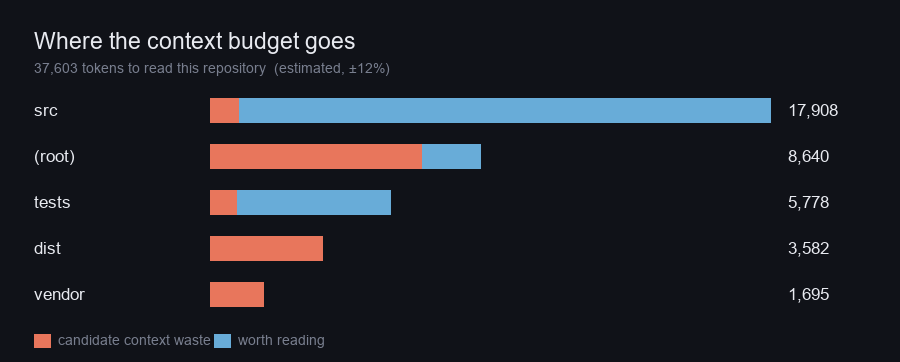
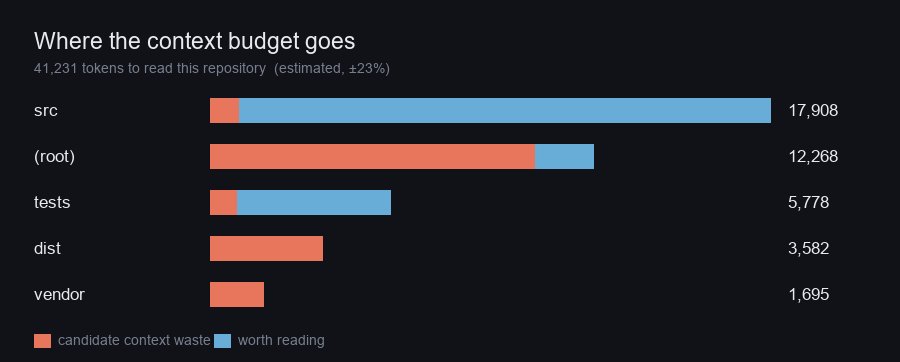
readme: hero table of 17 measured repos — buildkit 89.5% to yq 0.7%
The strongest asset this project has — 17 real repositories with measured
savings — lived only inside case-study posts while the front page showed a
single-repo example. The table now sits directly under the uvx one-liner,
sorted by share, each repo linked, with the spread itself framed as the
finding: there is no universal waste percentage, only your repository's
number, and the floor is genuinely low.

Also regenerates the generated section against the current estimator
(commit 4f52b8f changed lockfile counting; the example repo now reads
41,231 tokens, not 37,603) and fixes the stale test count (196 -> 198),
both of which had left 'docs/build_docs.py --check' red on main.

Changed region(s): [[0.4667, 0.395, 0.6844, 0.4862], [0.8711, 0.395, 0.9333, 0.4558], [0.0311, 0.1823, 0.0933, 0.2127]]

diff --git a/README.md b/README.md
@@ -18,6 +18,42 @@ that is waste?**
 uvx contextcost .          # no install, no config, results in seconds
 ```
 
+## 17 real repositories, measured
+
+One command per repository (`uvx contextcost <repo>`), full public checkouts,
+estimate tier (±14% measured bound). "Measured saving" is what disappears when
+the proposed exclusions are applied — **re-measured by walking the tree a
+second time**, never added up from guesses:
+
+| repository | tokens to read it | measured saving | share |
+| --- | ---: | ---: | ---: |
+| [moby/buildkit](https://github.com/moby/buildkit) | 14,600,569 | 13,070,932 | **89.5%** |
+| [jesseduffield/lazygit](https://github.com/jesseduffield/lazygit) | 5,766,190 | 4,487,197 | **77.8%** |
+| [sharkdp/bat](https://github.com/sharkdp/bat) | 53,715,389 | 29,977,946 | **55.8%** |
+| [astral-sh/uv](https://github.com/astral-sh/uv) | 8,855,618 | 4,523,776 | 51.1% |
+| [astral-sh/ruff](https://github.com/astral-sh/ruff) | 20,666,629 | 10,384,853 | 50.2% |
+| [contextcost (this repo)](https://github.com/CAOShurong/contextcost) | 161,453 | 75,790 | 46.9% |
+| [dask/dask](https://github.com/dask/dask) | 4,315,000 | 2,006,637 | 46.5% |
+| [plotly/plotly.js](https://github.com/plotly/plotly.js) | 63,831,059 | 26,822,142 | 42.0% |
+| [gitleaks/gitleaks](https://github.com/gitleaks/gitleaks) | 301,132 | 101,742 | 33.8% |
+| [trufflesecurity/trufflehog](https://github.com/trufflesecurity/trufflehog) | 4,456,181 | 1,444,421 | 32.4% |
+| [rclone/rclone](https://github.com/rclone/rclone) | 7,889,210 | 1,719,408 | 21.8% |
+| [pandas-dev/pandas](https://github.com/pandas-dev/pandas) | 10,105,577 | 2,176,295 | 21.5% |
+| [keycloak/keycloak](https://github.com/keycloak/keycloak) | 18,687,556 | 1,397,219 | 7.5% |
+| [pydata/xarray](https://github.com/pydata/xarray) | 2,133,276 | 126,159 | 5.9% |
+| [restic/restic](https://github.com/restic/restic) | 1,054,989 | 49,807 | 4.7% |
+| [astropy/astropy](https://github.com/astropy/astropy) | 7,881,727 | 212,121 | 2.7% |
+| [mikefarah/yq](https://github.com/mikefarah/yq) | 420,446 | 2,989 | **0.7%** |
+
+The spread *is* the finding: there is no universal waste percentage, only your
+repository's number — and a disciplined repository like yq correctly comes
+back clean instead of being handed invented findings. Per-file breakdowns:
+the [first seven repositories](docs/case-studies/2026-08-25-seven-repos.md),
+[ten more](docs/case-studies/2026-08-26-ten-more-repos.md), and the
+head-to-head against a packing tool
+[here](docs/case-studies/2026-08-26-vs-packing.md). Re-run the whole table
+yourself: `bash docs/case-studies/reproduce.sh`.
+
 ## The 3-second version
 
 Real output on [plotly.js](https://github.com/plotly/plotly.js) (full public
@@ -254,12 +290,12 @@ Nobody would call it bloated.
 
 ![Where the context budget goes](https://raw.githubusercontent.com/CAOShurong/contextcost/main/docs/breakdown.png)
 
-**37,603 tokens** to read 16 text files
+**41,231 tokens** to read 16 text files
 (estimated, ±23% — see below for why there is no tokenizer).
 
 | file | tokens | rule | confidence |
 | --- | ---: | --- | --- |
-| `package-lock.json` | 6,764 | lockfile | certain |
+| `package-lock.json` | 10,392 | lockfile | certain |
 | `dist/bundle.min.js` | 3,582 | minified | certain |
 | `vendor/legacy/widget.js` | 1,043 | vendored | likely |
 | `src/generated/schema.js` | 924 | generated | certain |
@@ -267,7 +303,7 @@ Nobody would call it bloated.
 
 ![What the proposal actually saves](https://raw.githubusercontent.com/CAOShurong/contextcost/main/docs/saving.png)
 
-Excluding those leaves **23,788 tokens — a 37%
+Excluding those leaves **23,788 tokens — a 42%
 reduction**, and that number is the difference between two walks of the
 repository, not a sum of what was dropped.
 
@@ -467,7 +503,7 @@ tool call beside the model.
 ## Development
 
 ```bash
-python -m pytest -q                      # 196 tests, no configuration needed
+python -m pytest -q                      # 198 tests, no configuration needed
 python -m ruff check src tests docs
 python docs/build_docs.py                # regenerate the figures and README
 python docs/build_docs.py --check        # CI fails if they are stale
